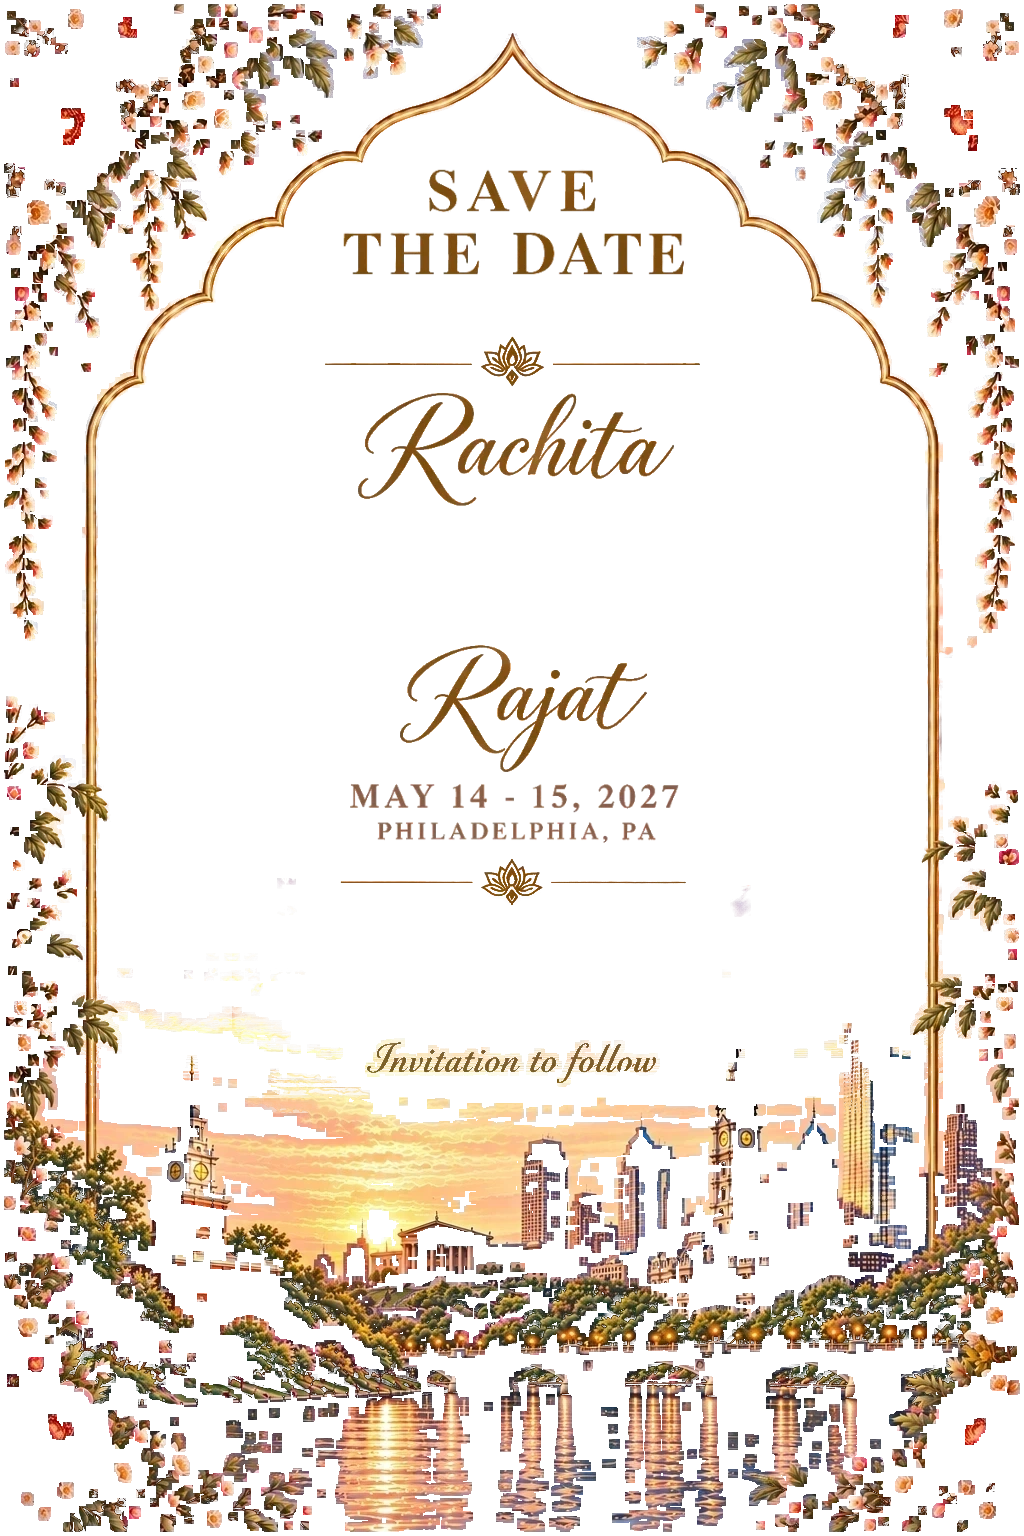
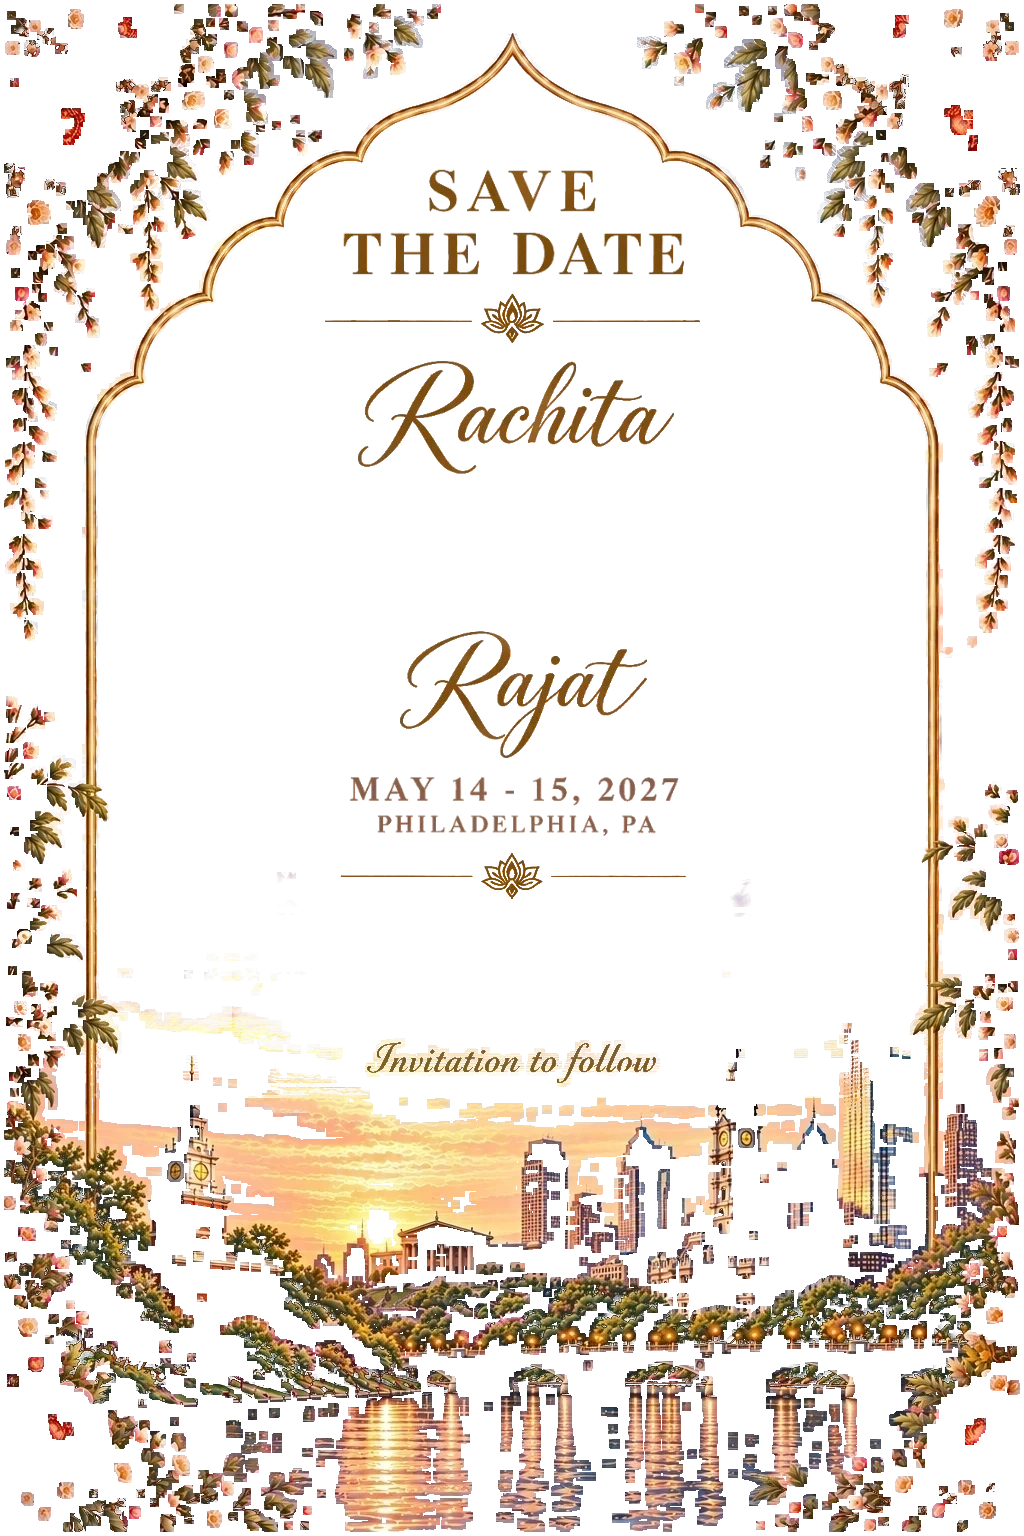
Even spacing for the lettering, lotus dividers and bow
Between the title (unchanged) and the countdown (unchanged), every element
now sits 20 px from the next; before, the gaps ran 63 px under the title
and only 9-19 px below. Moved up by whole pixels: upper divider 43 px,
Rachita 32, bow 24, Rajat 14, date and place 7, lower divider 6, in the
artwork and the lettering layer, uncovered space filled from the clean sky
plate. Artwork renamed save-the-date-v6.png.

Changed region(s): [[0.3438, 0.4062, 0.6562, 0.5938], [0.3438, 0.1875, 0.6562, 0.3438]]

diff --git a/src/BowTie.tsx b/src/BowTie.tsx
@@ -5,8 +5,9 @@ import './bow.css';
 
 // Where the approved bow sits in the 1024 x 1536 artwork.
 const ART = { width: 1024, height: 1536 };
-// 20% larger than first placed, centred in the widened gap between the names
-const BOW = { x: 434.55, y: 517, width: 170.4 };
+// 20% larger than first placed, centred in the gap between the names (moved
+// up 24 px with the evenly re-spaced lettering)
+const BOW = { x: 434.55, y: 493, width: 170.4 };
 const SCALE = BOW.width / BOW_SIZE.width;
 // the canvas just covers the finished bow, with a little room for the settle
 const VIEW = { x0: -6, x1: 204, y0: -6, y1: 143 };

diff --git a/index.html b/index.html
@@ -6,7 +6,7 @@
     <meta name="theme-color" content="#eac5bb" />
     <meta name="description" content="Save the date for Rachita and Rajat, May 14–15, 2027, in Philadelphia, Pennsylvania." />
     <meta name="robots" content="noindex, nofollow" />
-    <link rel="preload" as="image" href="./save-the-date-v5.png" fetchpriority="high" />
+    <link rel="preload" as="image" href="./save-the-date-v6.png" fetchpriority="high" />
     <title>Rachita & Rajat · Save the Date</title>
   </head>
   <body>

diff --git a/src/styles.css b/src/styles.css
@@ -23,7 +23,7 @@ body { overflow-x: hidden; }
   position: fixed;
   z-index: -1;
   inset: -48px;
-  background: linear-gradient(#efd5cc38, #b4768938), url('/save-the-date-v5.png') center / cover no-repeat;
+  background: linear-gradient(#efd5cc38, #b4768938), url('/save-the-date-v6.png') center / cover no-repeat;
   filter: blur(30px) saturate(.8);
   transform: scale(1.04);
   pointer-events: none;

diff --git a/src/App.tsx b/src/App.tsx
@@ -5,7 +5,7 @@ import { Countdown } from './Countdown';
 import { MusicToggle } from './MusicToggle';
 import { Soundtrack } from './soundtrack';
 
-const imageUrl = `${import.meta.env.BASE_URL}save-the-date-v5.png`;
+const imageUrl = `${import.meta.env.BASE_URL}save-the-date-v6.png`;
 const soundtrack = new Soundtrack();
 
 export function App() {

diff --git a/README.md b/README.md
@@ -15,7 +15,7 @@ Open the URL printed by Vite. `npm run build` creates a production site in `dist
 
 1. Blurred copy of the artwork behind the card.
 2. The approved envelope artwork, centred at about a quarter of the screen area (`src/EnvelopeIntro.tsx`). It is split into three layers in `src/assets/`: the body (with the paper under the flap painted in), the flap with its gold border and filigree, and the flap's resting shadow. The flap hinges on the envelope's top edge and flips open.
-3. The artwork PNG (`public/save-the-date-v5.png`): the sky inside the arch and its clouds come from the colour reference, the lettering uses its antique-gold and gold-brown tones, and the printed countdown box is retouched out. "SAVE THE DATE" is at 90% of its painted size and sits 32 px higher than painted, for more room above the lotus. The date and "PHILADELPHIA, PA" lines are at 85% of their painted size (same centre). "AND" between the names is replaced by a flowering-vine bow, and the names are at 75% size and spaced apart to make room for it. The bow is not baked into the PNG: `src/BowTie.tsx` and `src/animation/bowTie.ts` animate it forming in place (knot, then loops unfurling, then tails) once the invitation is fully visible, then show the approved painting (`src/assets/bow/bow.png`) in its exact place. On top, the live SVG countdown uses the original design at 80% size.
+3. The artwork PNG (`public/save-the-date-v6.png`): the sky inside the arch and its clouds come from the colour reference, the lettering uses its antique-gold and gold-brown tones, and the printed countdown box is retouched out. "SAVE THE DATE" is at 90% of its painted size and sits 32 px higher than painted, for more room above the lotus. The date and "PHILADELPHIA, PA" lines are at 85% of their painted size, and everything between the title and the countdown (the lotus dividers, names, bow, date and place) is evenly re-spaced, 20 px apart. "AND" between the names is replaced by a flowering-vine bow, and the names are at 75% size and spaced apart to make room for it. The bow is not baked into the PNG: `src/BowTie.tsx` and `src/animation/bowTie.ts` animate it forming in place (knot, then loops unfurling, then tails) once the invitation is fully visible, then show the approved painting (`src/assets/bow/bow.png`) in its exact place. On top, the live SVG countdown uses the original design at 80% size.
 4. A WebGL layer (`src/animation/ambient.ts`) that redraws the card each frame. Water ripples through layered drifting noise, and its existing golden reflections shimmer as independent horizontal streaks. The edge flowers and leaves sway on a slow 20 s breeze (±3 screen px at the tips), anchored at the card's edges, while a frame-only mask (`arch.webp`) keeps the gold arch still. The whole sky drifts slowly beneath the lettering, lotus dividers and arch line, which are redrawn on top. The maps it uses are in `src/assets/ambient/`. Without WebGL, the still painting shows.
 5. Lightweight canvas petals falling across the card (`src/animation/petals.ts`).
 
